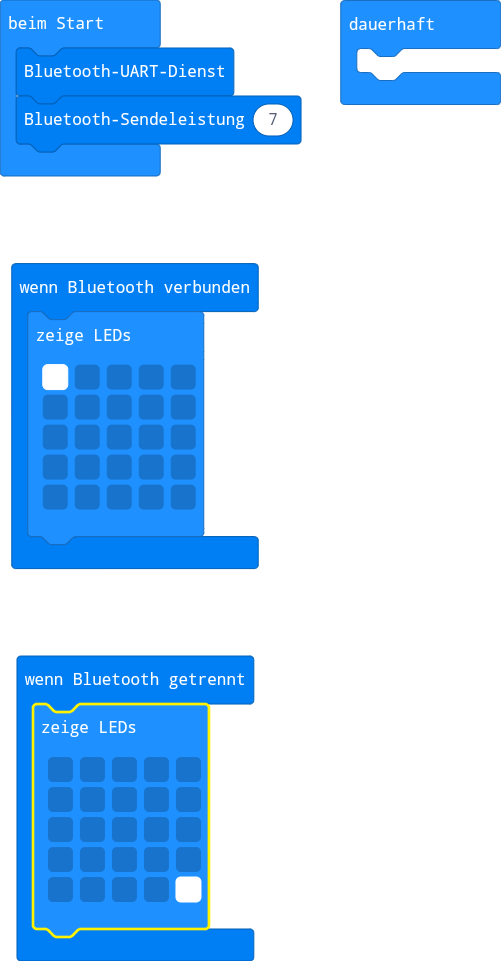
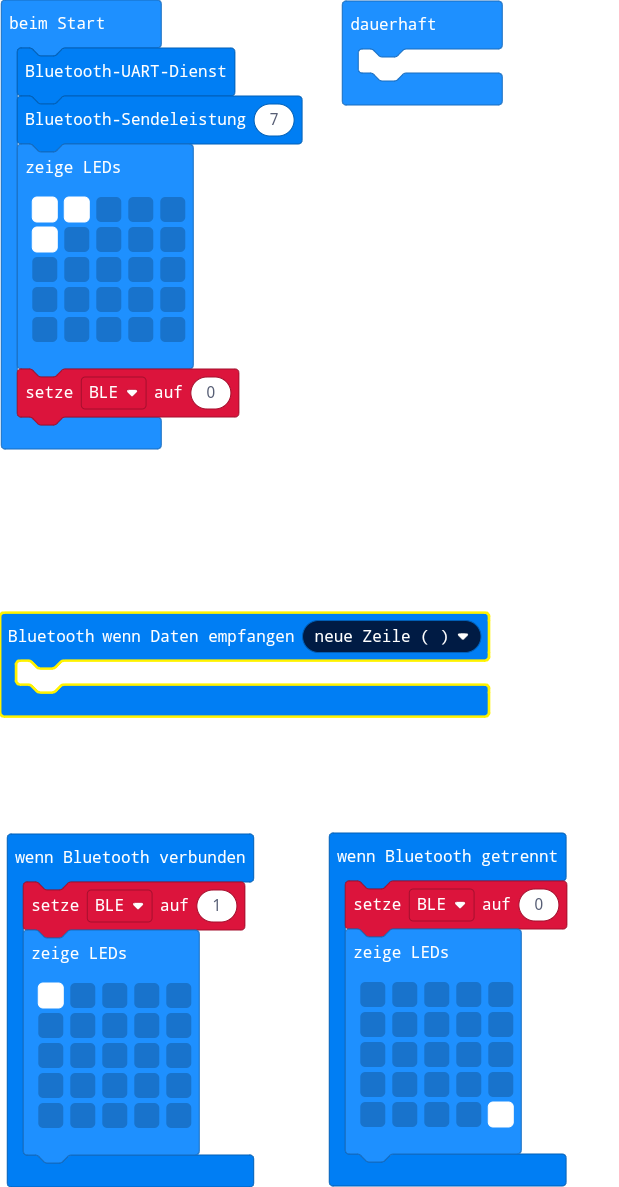
Aktualisiere main.blocks, main.ts

diff --git a/main.ts b/main.ts
@@ -1,4 +1,5 @@
 bluetooth.onBluetoothConnected(function () {
+    BLE = 1
     basic.showLeds(`
         # . . . .
         . . . . .
@@ -8,6 +9,7 @@ bluetooth.onBluetoothConnected(function () {
         `)
 })
 bluetooth.onBluetoothDisconnected(function () {
+    BLE = 0
     basic.showLeds(`
         . . . . .
         . . . . .
@@ -16,8 +18,20 @@ bluetooth.onBluetoothDisconnected(function () {
         . . . . #
         `)
 })
+bluetooth.onUartDataReceived(serial.delimiters(Delimiters.NewLine), function () {
+	
+})
+let BLE = 0
 bluetooth.startUartService()
 bluetooth.setTransmitPower(7)
+basic.showLeds(`
+    # # . . .
+    # . . . .
+    . . . . .
+    . . . . .
+    . . . . .
+    `)
+BLE = 0
 basic.forever(function () {
 	
 })
